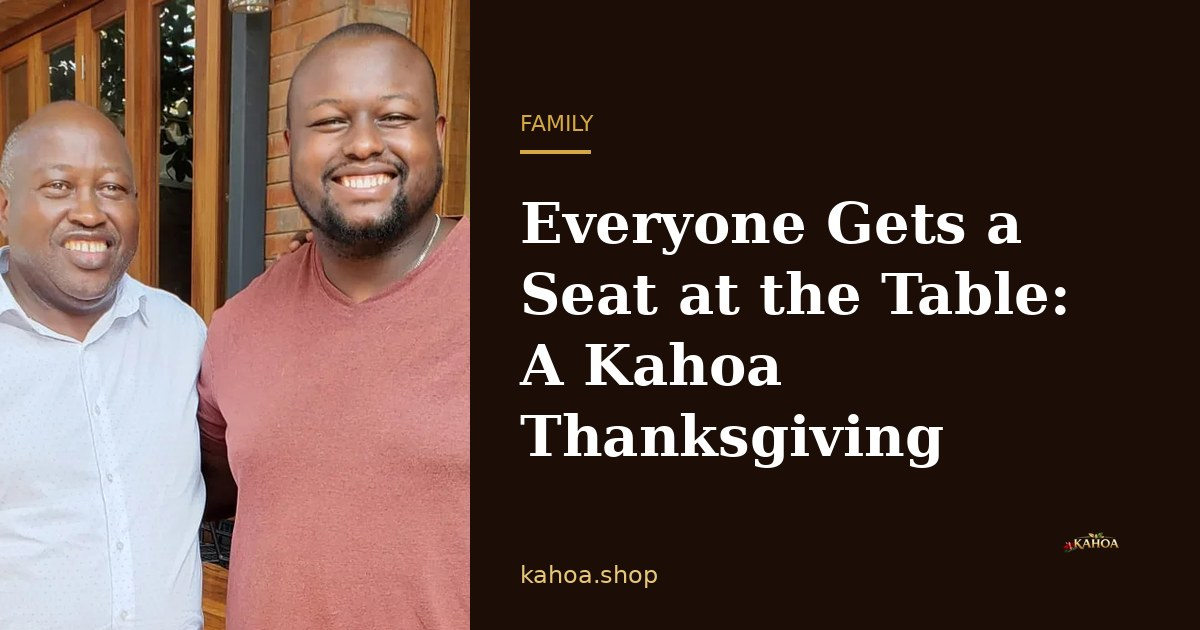
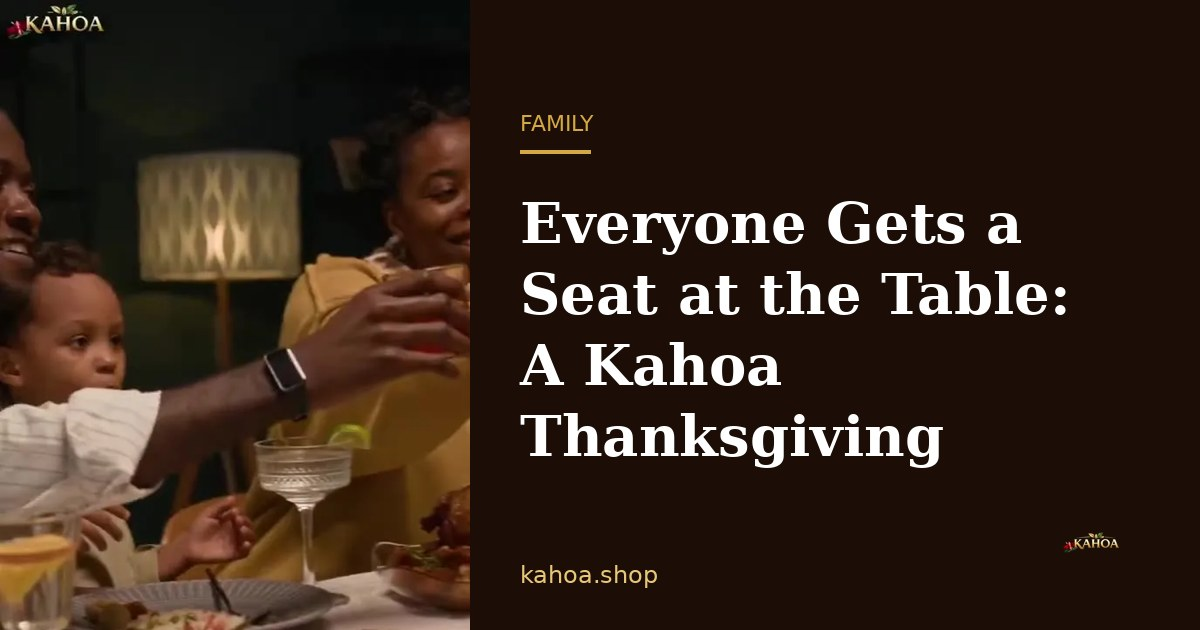
Blog: story cards can play a looping video; Thanksgiving card uses the table-welcome video
Claude-Session: https://claude.ai/code/session_01RGeNMpHd4Zkf2WXfT25wvz

diff --git a/blog/picking-coffee-cherries-kenyan-family-farm.html b/blog/picking-coffee-cherries-kenyan-family-farm.html
@@ -54,7 +54,7 @@ footer{background:#080300;color:rgba(255,255,255,.5);padding:40px 6%;text-align:
 </main></div>
 <div class=share role=group aria-label="Share this story"><span class=slabel>Share this story</span><div class=sbtns><a class=sbtn data-net=whatsapp href="https://wa.me/?text=Picking%20Coffee%20Cherries%20on%20a%20Kenyan%20Farm%20https%3A//kahoa.shop/blog/picking-coffee-cherries-kenyan-family-farm.html" target=_blank rel="noopener noreferrer" aria-label="Share on WhatsApp" title="Share on WhatsApp"><svg viewBox="0 0 24 24" width=20 height=20 aria-hidden=true focusable=false fill=currentColor><path d="M17.472 14.382c-.297-.149-1.758-.867-2.03-.967-.273-.099-.471-.148-.67.15-.197.297-.767.966-.94 1.164-.173.199-.347.223-.644.075-.297-.15-1.255-.463-2.39-1.475-.883-.788-1.48-1.761-1.653-2.059-.173-.297-.018-.458.13-.606.134-.133.298-.347.446-.52.149-.174.198-.298.298-.497.099-.198.05-.371-.025-.52-.075-.149-.669-1.612-.916-2.207-.242-.579-.487-.5-.669-.51-.173-.008-.371-.01-.57-.01-.198 0-.52.074-.792.372-.272.297-1.04 1.016-1.04 2.479 0 1.462 1.065 2.875 1.213 3.074.149.198 2.096 3.2 5.077 4.487.709.306 1.262.489 1.694.625.712.227 1.36.195 1.871.118.571-.085 1.758-.719 2.006-1.413.248-.694.248-1.289.173-1.413-.074-.124-.272-.198-.57-.347m-5.421 7.403h-.004a9.87 9.87 0 01-5.031-1.378l-.361-.214-3.741.982.998-3.648-.235-.374a9.86 9.86 0 01-1.51-5.26c.001-5.45 4.436-9.884 9.888-9.884 2.64 0 5.122 1.03 6.988 2.898a9.825 9.825 0 012.893 6.994c-.003 5.45-4.437 9.884-9.885 9.884m8.413-18.297A11.815 11.815 0 0012.05 0C5.495 0 .16 5.335.157 11.892c0 2.096.547 4.142 1.588 5.945L.057 24l6.305-1.654a11.882 11.882 0 005.683 1.448h.005c6.554 0 11.89-5.335 11.893-11.893a11.821 11.821 0 00-3.48-8.413Z"/></svg></a><a class=sbtn data-net=facebook href="https://www.facebook.com/sharer/sharer.php?u=https%3A//kahoa.shop/blog/picking-coffee-cherries-kenyan-family-farm.html" target=_blank rel="noopener noreferrer" aria-label="Share on Facebook" title="Share on Facebook"><svg viewBox="0 0 24 24" width=20 height=20 aria-hidden=true focusable=false fill=currentColor><path d="M9.101 23.691v-7.98H6.627v-3.667h2.474v-1.58c0-4.085 1.848-5.978 5.858-5.978.401 0 .955.042 1.468.103a8.68 8.68 0 0 1 1.141.195v3.325a8.623 8.623 0 0 0-.653-.036 26.805 26.805 0 0 0-.733-.009c-.707 0-1.259.096-1.675.309a1.686 1.686 0 0 0-.679.622c-.258.42-.374.995-.374 1.752v1.297h3.919l-.386 2.103-.287 1.564h-3.246v8.245C19.396 23.238 24 18.179 24 12.044c0-6.627-5.373-12-12-12s-12 5.373-12 12c0 5.628 3.874 10.35 9.101 11.647Z"/></svg></a><a class=sbtn data-net=x href="https://twitter.com/intent/tweet?text=Picking%20Coffee%20Cherries%20on%20a%20Kenyan%20Farm&url=https%3A//kahoa.shop/blog/picking-coffee-cherries-kenyan-family-farm.html" target=_blank rel="noopener noreferrer" aria-label="Share on X" title="Share on X"><svg viewBox="0 0 24 24" width=20 height=20 aria-hidden=true focusable=false fill=currentColor><path d="M18.901 1.153h3.68l-8.04 9.19L24 22.846h-7.406l-5.8-7.584-6.638 7.584H.474l8.6-9.83L0 1.154h7.594l5.243 6.932ZM17.61 20.644h2.039L6.486 3.24H4.298Z"/></svg></a><a class=sbtn data-net=mail href="mailto:?subject=Picking%20Coffee%20Cherries%20on%20a%20Kenyan%20Farm&body=https%3A//kahoa.shop/blog/picking-coffee-cherries-kenyan-family-farm.html" target=_blank rel="noopener noreferrer" aria-label="Share by email" title="Share by email"><svg viewBox="0 0 24 24" width=20 height=20 aria-hidden=true focusable=false><rect x="2" y="4" width="20" height="16" rx="2" fill="none" stroke="currentColor" stroke-width="2"/><path d="M2 7l10 7 10-7" fill="none" stroke="currentColor" stroke-width="2" stroke-linejoin="round"/></svg></a><button type=button class=sbtn data-net=link aria-label="Copy link" title="Copy link" data-copy="https://kahoa.shop/blog/picking-coffee-cherries-kenyan-family-farm.html"><svg viewBox="0 0 24 24" width=20 height=20 aria-hidden=true focusable=false><path fill="none" stroke="currentColor" stroke-width="2" stroke-linecap="round" stroke-linejoin="round" d="M10 13a5 5 0 0 0 7.54.54l3-3a5 5 0 0 0-7.07-7.07l-1.72 1.71M14 11a5 5 0 0 0-7.54-.54l-3 3a5 5 0 0 0 7.07 7.07l1.71-1.71"/></svg></button><button type=button class=sbtn data-net=share aria-label="More sharing options" title="More sharing options" data-native hidden data-title="Picking Coffee Cherries on a Kenyan Farm" data-url="https://kahoa.shop/blog/picking-coffee-cherries-kenyan-family-farm.html"><svg viewBox="0 0 24 24" width=20 height=20 aria-hidden=true focusable=false><path fill="none" stroke="currentColor" stroke-width="2" stroke-linecap="round" stroke-linejoin="round" d="M4 12v7a1 1 0 0 0 1 1h14a1 1 0 0 0 1-1v-7M16 6l-4-4-4 4M12 2v13"/></svg></button></div></div>
 <div class=abox><div class=acard><img src="/martin-kibuthu-2.webp" alt="Martin Kibuthu, founder of Kahoa Coffee, smiling at a Kahoa festival booth" width=92 height=92 loading=lazy><div><div class=lbl>Written by</div><h3>Martin Kibuthu</h3><div class=role>Founder, Kahoa Coffee</div><p>Martin founded Kahoa Coffee in Austin, Texas. He grew up picking coffee on his grandfather&#x27;s farm in the Kenyan highlands, and he writes here about where our coffee comes from and how to enjoy it.</p><a href="/our-story.html">Read our story &rarr;</a></div></div></div>
-<div class=more><h2>More stories</h2><div class=sgrid><a class=scard href="/blog/thanksgiving-seat-at-the-table.html"><div class=simg role=img aria-label="Martin Kibuthu and his father smiling together" style="background-image:url(/martin-and-dad.webp);background-position:center 30%"></div><div class=sbody><span class=tag>Family &middot; Nov 25, 2026</span><h3>Everyone Gets a Seat at the Table: A Kahoa Thanksgiving</h3><p>One coffee farm fed us, educated us and kept a big family close across three generations. That&#x27;s the table we want to share.</p><span class=go>Read the story</span></div></a></div></div>
+<div class=more><h2>More stories</h2><div class=sgrid><a class=scard href="/blog/thanksgiving-seat-at-the-table.html"><div class=simg role=img aria-label="Friends around a candlelit dinner table raising their glasses in a toast" style="background-image:url(/kahoa-table-welcome-poster.webp);background-position:center 30%;position:relative;overflow:hidden"><video src="/kahoa-table-welcome.mp4" poster="/kahoa-table-welcome-poster.webp" autoplay muted loop playsinline preload="metadata" aria-hidden="true" style="position:absolute;inset:0;width:100%;height:100%;object-fit:cover;object-position:center 30%"></video></div><div class=sbody><span class=tag>Family &middot; Nov 25, 2026</span><h3>Everyone Gets a Seat at the Table: A Kahoa Thanksgiving</h3><p>One coffee farm fed us, educated us and kept a big family close across three generations. That&#x27;s the table we want to share.</p><span class=go>Read the story</span></div></a></div></div>
 <div class=toast role=status aria-live=polite></div><script>(function(){var t=document.querySelector('.toast'),h;function show(m){t.textContent=m;t.className='toast on';clearTimeout(h);h=setTimeout(function(){t.className='toast'},2200)}document.querySelectorAll('[data-copy]').forEach(function(b){b.addEventListener('click',function(){var u=b.getAttribute('data-copy');(navigator.clipboard?navigator.clipboard.writeText(u):Promise.reject()).then(function(){show('Link copied')},function(){window.prompt('Copy this link',u)})})});document.querySelectorAll('[data-native]').forEach(function(b){if(navigator.share){b.hidden=false;b.addEventListener('click',function(){navigator.share({title:b.getAttribute('data-title'),url:b.getAttribute('data-url')}).catch(function(){})})}});})();</script>
 <section class=cta-band><h2>Taste Kenya for yourself</h2><p>Single-origin Kenyan coffee, roasted in Texas and shipped fresh, with free local delivery in Austin.</p><a class=btn-gold href=/shop.html>Shop the coffee</a></section>
 <footer><div class=fl><a href=/>Home</a><a href=/shop.html>Shop</a><a href=/brew-guide.html>Brew Guide</a><a href=/blog.html>Stories</a><a href=/our-story.html>Our Story</a><a href=/coffee-cart.html>Coffee Cart</a><a href="mailto:info@kahoa.shop">info@kahoa.shop</a></div>© 2026 Kahoa Coffee &middot; Austin, Texas &middot; Nairobi, Kenya</footer>

diff --git a/blog/thanksgiving-seat-at-the-table.html b/blog/thanksgiving-seat-at-the-table.html
@@ -67,7 +67,7 @@ footer{background:#080300;color:rgba(255,255,255,.5);padding:40px 6%;text-align:
 </main></div>
 <div class=share role=group aria-label="Share this story"><span class=slabel>Share this story</span><div class=sbtns><a class=sbtn data-net=whatsapp href="https://wa.me/?text=Everyone%20Gets%20a%20Seat%20at%20the%20Table%3A%20A%20Kahoa%20Thanksgiving%20https%3A//kahoa.shop/blog/thanksgiving-seat-at-the-table.html" target=_blank rel="noopener noreferrer" aria-label="Share on WhatsApp" title="Share on WhatsApp"><svg viewBox="0 0 24 24" width=20 height=20 aria-hidden=true focusable=false fill=currentColor><path d="M17.472 14.382c-.297-.149-1.758-.867-2.03-.967-.273-.099-.471-.148-.67.15-.197.297-.767.966-.94 1.164-.173.199-.347.223-.644.075-.297-.15-1.255-.463-2.39-1.475-.883-.788-1.48-1.761-1.653-2.059-.173-.297-.018-.458.13-.606.134-.133.298-.347.446-.52.149-.174.198-.298.298-.497.099-.198.05-.371-.025-.52-.075-.149-.669-1.612-.916-2.207-.242-.579-.487-.5-.669-.51-.173-.008-.371-.01-.57-.01-.198 0-.52.074-.792.372-.272.297-1.04 1.016-1.04 2.479 0 1.462 1.065 2.875 1.213 3.074.149.198 2.096 3.2 5.077 4.487.709.306 1.262.489 1.694.625.712.227 1.36.195 1.871.118.571-.085 1.758-.719 2.006-1.413.248-.694.248-1.289.173-1.413-.074-.124-.272-.198-.57-.347m-5.421 7.403h-.004a9.87 9.87 0 01-5.031-1.378l-.361-.214-3.741.982.998-3.648-.235-.374a9.86 9.86 0 01-1.51-5.26c.001-5.45 4.436-9.884 9.888-9.884 2.64 0 5.122 1.03 6.988 2.898a9.825 9.825 0 012.893 6.994c-.003 5.45-4.437 9.884-9.885 9.884m8.413-18.297A11.815 11.815 0 0012.05 0C5.495 0 .16 5.335.157 11.892c0 2.096.547 4.142 1.588 5.945L.057 24l6.305-1.654a11.882 11.882 0 005.683 1.448h.005c6.554 0 11.89-5.335 11.893-11.893a11.821 11.821 0 00-3.48-8.413Z"/></svg></a><a class=sbtn data-net=facebook href="https://www.facebook.com/sharer/sharer.php?u=https%3A//kahoa.shop/blog/thanksgiving-seat-at-the-table.html" target=_blank rel="noopener noreferrer" aria-label="Share on Facebook" title="Share on Facebook"><svg viewBox="0 0 24 24" width=20 height=20 aria-hidden=true focusable=false fill=currentColor><path d="M9.101 23.691v-7.98H6.627v-3.667h2.474v-1.58c0-4.085 1.848-5.978 5.858-5.978.401 0 .955.042 1.468.103a8.68 8.68 0 0 1 1.141.195v3.325a8.623 8.623 0 0 0-.653-.036 26.805 26.805 0 0 0-.733-.009c-.707 0-1.259.096-1.675.309a1.686 1.686 0 0 0-.679.622c-.258.42-.374.995-.374 1.752v1.297h3.919l-.386 2.103-.287 1.564h-3.246v8.245C19.396 23.238 24 18.179 24 12.044c0-6.627-5.373-12-12-12s-12 5.373-12 12c0 5.628 3.874 10.35 9.101 11.647Z"/></svg></a><a class=sbtn data-net=x href="https://twitter.com/intent/tweet?text=Everyone%20Gets%20a%20Seat%20at%20the%20Table%3A%20A%20Kahoa%20Thanksgiving&url=https%3A//kahoa.shop/blog/thanksgiving-seat-at-the-table.html" target=_blank rel="noopener noreferrer" aria-label="Share on X" title="Share on X"><svg viewBox="0 0 24 24" width=20 height=20 aria-hidden=true focusable=false fill=currentColor><path d="M18.901 1.153h3.68l-8.04 9.19L24 22.846h-7.406l-5.8-7.584-6.638 7.584H.474l8.6-9.83L0 1.154h7.594l5.243 6.932ZM17.61 20.644h2.039L6.486 3.24H4.298Z"/></svg></a><a class=sbtn data-net=mail href="mailto:?subject=Everyone%20Gets%20a%20Seat%20at%20the%20Table%3A%20A%20Kahoa%20Thanksgiving&body=https%3A//kahoa.shop/blog/thanksgiving-seat-at-the-table.html" target=_blank rel="noopener noreferrer" aria-label="Share by email" title="Share by email"><svg viewBox="0 0 24 24" width=20 height=20 aria-hidden=true focusable=false><rect x="2" y="4" width="20" height="16" rx="2" fill="none" stroke="currentColor" stroke-width="2"/><path d="M2 7l10 7 10-7" fill="none" stroke="currentColor" stroke-width="2" stroke-linejoin="round"/></svg></a><button type=button class=sbtn data-net=link aria-label="Copy link" title="Copy link" data-copy="https://kahoa.shop/blog/thanksgiving-seat-at-the-table.html"><svg viewBox="0 0 24 24" width=20 height=20 aria-hidden=true focusable=false><path fill="none" stroke="currentColor" stroke-width="2" stroke-linecap="round" stroke-linejoin="round" d="M10 13a5 5 0 0 0 7.54.54l3-3a5 5 0 0 0-7.07-7.07l-1.72 1.71M14 11a5 5 0 0 0-7.54-.54l-3 3a5 5 0 0 0 7.07 7.07l1.71-1.71"/></svg></button><button type=button class=sbtn data-net=share aria-label="More sharing options" title="More sharing options" data-native hidden data-title="Everyone Gets a Seat at the Table: A Kahoa Thanksgiving" data-url="https://kahoa.shop/blog/thanksgiving-seat-at-the-table.html"><svg viewBox="0 0 24 24" width=20 height=20 aria-hidden=true focusable=false><path fill="none" stroke="currentColor" stroke-width="2" stroke-linecap="round" stroke-linejoin="round" d="M4 12v7a1 1 0 0 0 1 1h14a1 1 0 0 0 1-1v-7M16 6l-4-4-4 4M12 2v13"/></svg></button></div></div>
 <div class=abox><div class=acard><img src="/martin-kibuthu-2.webp" alt="Martin Kibuthu, founder of Kahoa Coffee, smiling at a Kahoa festival booth" width=92 height=92 loading=lazy><div><div class=lbl>Written by</div><h3>Martin Kibuthu</h3><div class=role>Founder, Kahoa Coffee</div><p>Martin founded Kahoa Coffee in Austin, Texas. He grew up picking coffee on his grandfather&#x27;s farm in the Kenyan highlands, and he writes here about where our coffee comes from and how to enjoy it.</p><a href="/our-story.html">Read our story &rarr;</a></div></div></div>
-<div class=more><h2>More stories</h2><div class=sgrid><a class=scard href="/blog/picking-coffee-cherries-kenyan-family-farm.html"><div class=simg role=img aria-label="Jeremiah Kibuthu, the author&#x27;s grandfather" style="background-image:url(/jeremiah-kibuthu.webp);background-position:top center"></div><div class=sbody><span class=tag>From the Farm &middot; Nov 8, 2026</span><h3>Picking Coffee Cherries on a Kenyan Farm</h3><p>A thermos of tea, a small bucket, red cherries and a bumpy ride to the factory: my earliest memories of coffee.</p><span class=go>Read the story</span></div></a></div></div>
+<div class=more><h2>More stories</h2><div class=sgrid><a class=scard href="/blog/picking-coffee-cherries-kenyan-family-farm.html"><div class=simg role=img aria-label="Jeremiah Kibuthu, the author&#x27;s grandfather" style="background-image:url(/jeremiah-kibuthu.webp);background-position:top center;position:relative;overflow:hidden"></div><div class=sbody><span class=tag>From the Farm &middot; Nov 8, 2026</span><h3>Picking Coffee Cherries on a Kenyan Farm</h3><p>A thermos of tea, a small bucket, red cherries and a bumpy ride to the factory: my earliest memories of coffee.</p><span class=go>Read the story</span></div></a></div></div>
 <div class=toast role=status aria-live=polite></div><script>(function(){var t=document.querySelector('.toast'),h;function show(m){t.textContent=m;t.className='toast on';clearTimeout(h);h=setTimeout(function(){t.className='toast'},2200)}document.querySelectorAll('[data-copy]').forEach(function(b){b.addEventListener('click',function(){var u=b.getAttribute('data-copy');(navigator.clipboard?navigator.clipboard.writeText(u):Promise.reject()).then(function(){show('Link copied')},function(){window.prompt('Copy this link',u)})})});document.querySelectorAll('[data-native]').forEach(function(b){if(navigator.share){b.hidden=false;b.addEventListener('click',function(){navigator.share({title:b.getAttribute('data-title'),url:b.getAttribute('data-url')}).catch(function(){})})}});})();</script>
 <section class=cta-band><h2>Taste Kenya for yourself</h2><p>Single-origin Kenyan coffee, roasted in Texas and shipped fresh, with free local delivery in Austin.</p><a class=btn-gold href=/shop.html>Shop the coffee</a></section>
 <footer><div class=fl><a href=/>Home</a><a href=/shop.html>Shop</a><a href=/brew-guide.html>Brew Guide</a><a href=/blog.html>Stories</a><a href=/our-story.html>Our Story</a><a href=/coffee-cart.html>Coffee Cart</a><a href="mailto:info@kahoa.shop">info@kahoa.shop</a></div>© 2026 Kahoa Coffee &middot; Austin, Texas &middot; Nairobi, Kenya</footer>

diff --git a/blog.html b/blog.html
@@ -30,8 +30,8 @@ footer{background:#080300;color:rgba(255,255,255,.5);padding:40px 6%;text-align:
 </head><body>
 <nav><a href=/><img alt="Kahoa Coffee" src=/kahoa-logo.webp></a><div class=links><a href=/>Home</a><a href=/brew-guide.html>Brew Guide</a><a href=/blog.html>Stories</a><a href=/our-story.html>Our Story</a><a class=cta href=/shop.html>Shop</a></div></nav>
 <header class=bhero><p class=eyebrow>The Kahoa Coffee Blog</p><h1>From the <em>Highlands</em></h1><div class=rule></div><p class=lede>Stories from our Kenyan coffee-farming family, and plain-English guides to the coffee in your cup.</p></header>
-<a class=feature href="/blog/thanksgiving-seat-at-the-table.html"><div class=fimg role=img aria-label="Martin Kibuthu and his father smiling together" style="background-image:url(/martin-and-dad.webp);background-position:center 30%"></div><div class=ftxt><span class=tag>Latest story &middot; Family &middot; Nov 25, 2026</span><h2>Everyone Gets a Seat at the Table: A Kahoa Thanksgiving</h2><p class=ex>One coffee farm fed us, educated us and kept a big family close across three generations. That&#x27;s the table we want to share.</p><div class=chip><img src="/martin-kibuthu-2.webp" alt="Martin Kibuthu, founder of Kahoa Coffee, smiling at a Kahoa festival booth" width=42 height=42 loading=lazy><div><b>Martin Kibuthu</b><span>Founder, Kahoa Coffee &middot; 5 min read</span></div></div><span class=go>Read the story</span></div></a>
-<div class=wrap><section class=sec><p class=eyebrow>Keep reading</p><h2 class=sh>More stories</h2><div class=sgrid><a class=scard href="/blog/picking-coffee-cherries-kenyan-family-farm.html"><div class=simg role=img aria-label="Jeremiah Kibuthu, the author&#x27;s grandfather" style="background-image:url(/jeremiah-kibuthu.webp);background-position:top center"></div><div class=sbody><span class=tag>From the Farm &middot; Nov 8, 2026</span><h3>Picking Coffee Cherries on a Kenyan Farm</h3><p>A thermos of tea, a small bucket, red cherries and a bumpy ride to the factory: my earliest memories of coffee.</p><span class=go>Read the story</span></div></a></div></section></div>
+<a class=feature href="/blog/thanksgiving-seat-at-the-table.html"><div class=fimg role=img aria-label="Friends around a candlelit dinner table raising their glasses in a toast" style="background-image:url(/kahoa-table-welcome-poster.webp);background-position:center 30%;position:relative;overflow:hidden"><video src="/kahoa-table-welcome.mp4" poster="/kahoa-table-welcome-poster.webp" autoplay muted loop playsinline preload="metadata" aria-hidden="true" style="position:absolute;inset:0;width:100%;height:100%;object-fit:cover;object-position:center 30%"></video></div><div class=ftxt><span class=tag>Latest story &middot; Family &middot; Nov 25, 2026</span><h2>Everyone Gets a Seat at the Table: A Kahoa Thanksgiving</h2><p class=ex>One coffee farm fed us, educated us and kept a big family close across three generations. That&#x27;s the table we want to share.</p><div class=chip><img src="/martin-kibuthu-2.webp" alt="Martin Kibuthu, founder of Kahoa Coffee, smiling at a Kahoa festival booth" width=42 height=42 loading=lazy><div><b>Martin Kibuthu</b><span>Founder, Kahoa Coffee &middot; 5 min read</span></div></div><span class=go>Read the story</span></div></a>
+<div class=wrap><section class=sec><p class=eyebrow>Keep reading</p><h2 class=sh>More stories</h2><div class=sgrid><a class=scard href="/blog/picking-coffee-cherries-kenyan-family-farm.html"><div class=simg role=img aria-label="Jeremiah Kibuthu, the author&#x27;s grandfather" style="background-image:url(/jeremiah-kibuthu.webp);background-position:top center;position:relative;overflow:hidden"></div><div class=sbody><span class=tag>From the Farm &middot; Nov 8, 2026</span><h3>Picking Coffee Cherries on a Kenyan Farm</h3><p>A thermos of tea, a small bucket, red cherries and a bumpy ride to the factory: my earliest memories of coffee.</p><span class=go>Read the story</span></div></a></div></section></div>
 <div class=wrap><section class=sec><p class=eyebrow>Start here</p><h2 class=sh>Our Kenyan coffee guides</h2><p class=sub>New to Kenyan coffee? These guides cover where it grows, how it is graded, how to brew it, and where to buy it in Austin.</p><div class=sgrid><a class=scard href="/kenyan-coffee-austin.html"><div class=simg style="background-image:url(/kahoa-coffee-cart-hero.webp)"></div><div class=sbody><span class=tag>Guide</span><h3>Kenyan coffee in Austin, Texas</h3><p>Where to buy single-origin Kenyan coffee in Austin, plus cold brew, delivery and the coffee cart.</p><span class=go>Read the guide</span></div></a><a class=scard href="/kenya-coffee-regions.html"><div class=simg style="background-image:url(/kahoa-farm-hero-poster.webp)"></div><div class=sbody><span class=tag>Guide</span><h3>Nyeri, Kirinyaga and Murang&#x27;a: Kenya&#x27;s coffee regions</h3><p>Where Kenyan coffee grows, and how altitude, soil and rain shape the cup.</p><span class=go>Read the guide</span></div></a><a class=scard href="/kenya-coffee-grades.html"><div class=simg style="background-image:url(/green-kenya-aa.webp)"></div><div class=sbody><span class=tag>Guide</span><h3>Kenya AA, AB and PB: what the grades mean</h3><p>Kenyan coffee is graded by bean size and shape. Here is how to read the labels.</p><span class=go>Read the guide</span></div></a><a class=scard href="/brew-guide.html"><div class=simg style="background-image:url(/kahoa-brew-hero-poster.webp)"></div><div class=sbody><span class=tag>Guide</span><h3>How to brew Kenyan coffee at home</h3><p>Pour-over, French press, espresso, cold brew, nitro and spiced cold brew, step by step.</p><span class=go>Read the guide</span></div></a></div></section></div>
 <section class=authors><div class=wrap><p class=eyebrow style="text-align:center">Meet the writer</p><div class=acard><img src="/martin-kibuthu-2.webp" alt="Martin Kibuthu, founder of Kahoa Coffee, smiling at a Kahoa festival booth" width=128 height=128 loading=lazy><div><h3>Martin Kibuthu</h3><div class=role>Founder, Kahoa Coffee</div><p>Martin founded Kahoa Coffee in Austin, Texas. He grew up picking coffee on his grandfather&#x27;s farm in the Kenyan highlands, and he writes here about where our coffee comes from and how to enjoy it.</p><a href="/our-story.html">Read our story &rarr;</a></div></div></div></section>
 <section class=cta-band><h2>Taste what we write about</h2><p>Single-origin Kenyan coffee, roasted in Texas and shipped fresh, with free local delivery in Austin.</p><a class=btn-gold href=/shop.html>Shop the coffee</a></section>

diff --git a/blog-src/build.py b/blog-src/build.py
@@ -65,8 +65,12 @@ def short_date(d):
     x = datetime.date.fromisoformat(d); return x.strftime('%b ') + str(x.day) + x.strftime(', %Y')
 def chip(a, extra=''):
     return f'<div class=chip><img src="{a["image"]}" alt="{attr(a["image_alt"])}" width=42 height=42 loading=lazy><div><b>{esc(a["name"])}</b><span>{esc(a["role"])}{extra}</span></div></div>'
+def card_vid(p):
+    v = p.get('card_video')
+    if not v: return ''
+    return f'<video src="{v}" poster="{p["card_image"]}" autoplay muted loop playsinline preload="metadata" aria-hidden="true" style="position:absolute;inset:0;width:100%;height:100%;object-fit:cover;object-position:{p["card_position"]}"></video>'
 def scard(p, a):
-    return (f'<a class=scard href="/blog/{p["slug"]}.html"><div class=simg role=img aria-label="{attr(p["card_alt"])}" style="background-image:url({p["card_image"]});background-position:{p["card_position"]}"></div>'
+    return (f'<a class=scard href="/blog/{p["slug"]}.html"><div class=simg role=img aria-label="{attr(p["card_alt"])}" style="background-image:url({p["card_image"]});background-position:{p["card_position"]};position:relative;overflow:hidden">{card_vid(p)}</div>'
             f'<div class=sbody><span class=tag>{esc(p["category"])} &middot; {short_date(p["date"])}</span><h3>{esc(p["title"])}</h3><p>{esc(p["excerpt"])}</p><span class=go>Read the story</span></div></a>')
 
 # ---------- OG images ----------
@@ -156,7 +160,7 @@ def build_index():
     h += ('<header class=bhero><p class=eyebrow>The Kahoa Coffee Blog</p><h1>From the <em>Highlands</em></h1><div class=rule></div>'
           '<p class=lede>Stories from our Kenyan coffee-farming family, and plain-English guides to the coffee in your cup.</p></header>\n')
     f = posts[0]; fa = authors[f['author']]
-    h += (f'<a class=feature href="/blog/{f["slug"]}.html"><div class=fimg role=img aria-label="{attr(f["card_alt"])}" style="background-image:url({f["card_image"]});background-position:{f["card_position"]}"></div>'
+    h += (f'<a class=feature href="/blog/{f["slug"]}.html"><div class=fimg role=img aria-label="{attr(f["card_alt"])}" style="background-image:url({f["card_image"]});background-position:{f["card_position"]};position:relative;overflow:hidden">{card_vid(f)}</div>'
           f'<div class=ftxt><span class=tag>Latest story &middot; {esc(f["category"])} &middot; {short_date(f["date"])}</span><h2>{esc(f["title"])}</h2><p class=ex>{esc(f["excerpt"])}</p>'
           f'{chip(fa, " &middot; " + str(f["read_min"]) + " min read")}<span class=go>Read the story</span></div></a>\n')
     if len(posts) > 1:
